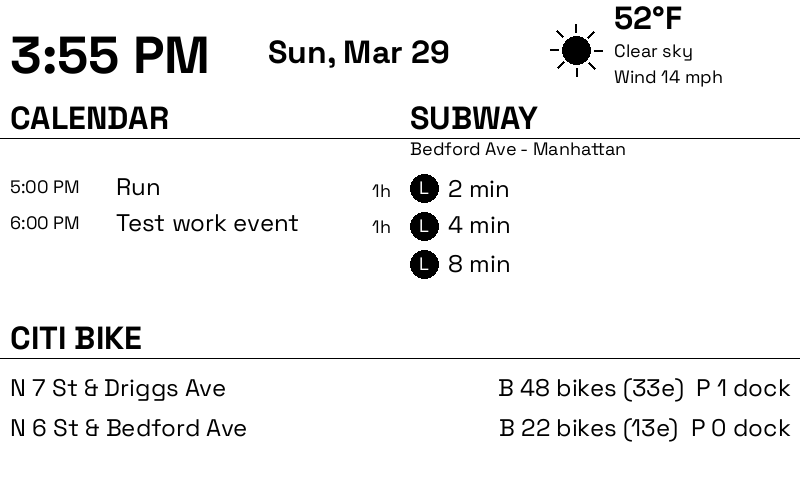
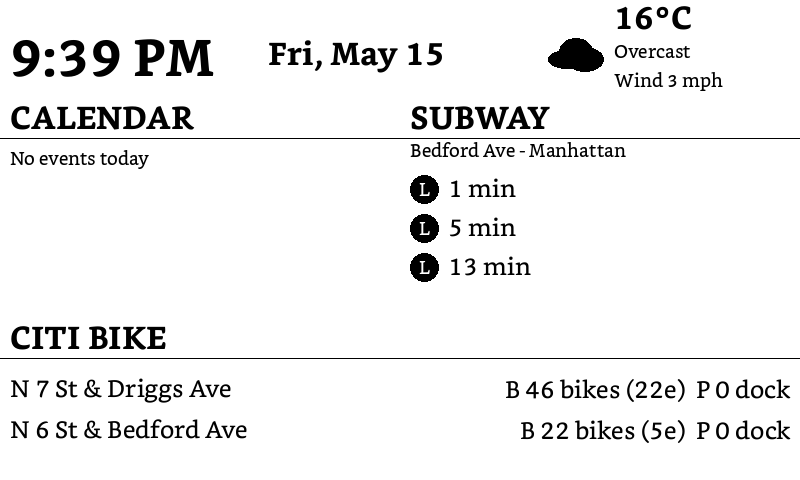
bookerly

diff --git a/fetchers/weather.py b/fetchers/weather.py
@@ -18,6 +18,17 @@ import config
 
 logger = logging.getLogger(__name__)
 
+
+def _open_meteo_temperature_unit() -> str:
+    u = str(getattr(config, "WEATHER_TEMPERATURE_UNIT", "celsius")).lower()
+    return "celsius" if u == "celsius" else "fahrenheit"
+
+
+def temperature_unit_suffix() -> str:
+    """Return ``°C`` or ``°F`` for labels, matching :func:`_open_meteo_temperature_unit`."""
+    return "°C" if _open_meteo_temperature_unit() == "celsius" else "°F"
+
+
 # ---------------------------------------------------------------------------
 # WMO weather interpretation codes → (human label, icon key)
 # Full table: https://open-meteo.com/en/docs#weathervariables
@@ -64,7 +75,7 @@ _cache: Optional[WeatherData] = None  # type: ignore[name-defined]  # forward re
 class WeatherData:
     """Current weather conditions."""
 
-    temperature: float       # °F
+    temperature: float       # degrees; unit matches config.WEATHER_TEMPERATURE_UNIT
     condition: str           # human-readable string
     wind_speed: float        # mph
     icon_key: str            # one of: sunny | cloudy | rainy | snowy | stormy | foggy
@@ -85,7 +96,7 @@ def fetch_weather() -> Optional[WeatherData]:
                 "latitude": config.LATITUDE,
                 "longitude": config.LONGITUDE,
                 "current": "temperature_2m,weathercode,windspeed_10m,precipitation",
-                "temperature_unit": "fahrenheit",
+                "temperature_unit": _open_meteo_temperature_unit(),
                 "wind_speed_unit": "mph",
                 "timezone": config.TIMEZONE,
             },
@@ -107,7 +118,11 @@ def fetch_weather() -> Optional[WeatherData]:
         )
         _cache = result
         logger.debug(
-            "Weather fetched: %.1f°F, %s (code %d)", result.temperature, condition, code
+            "Weather fetched: %.1f%s, %s (code %d)",
+            result.temperature,
+            temperature_unit_suffix(),
+            condition,
+            code,
         )
         return result
 

diff --git a/config.py b/config.py
@@ -14,6 +14,9 @@ LATITUDE: float = 40.71771557633474
 LONGITUDE: float = -73.95739191241212
 TIMEZONE: str = "America/New_York"
 
+# Open-Meteo: "celsius" or "fahrenheit" (see fetchers.weather).
+WEATHER_TEMPERATURE_UNIT: str = "celsius"
+
 # ---------------------------------------------------------------------------
 # MTA Subway
 # ---------------------------------------------------------------------------
@@ -78,8 +81,11 @@ FULL_REFRESH_INTERVAL: int = 900          # weather + calendar + full redraw (15
 # ---------------------------------------------------------------------------
 # Fonts  (paths relative to the project root)
 # ---------------------------------------------------------------------------
-FONT_REGULAR: str = "assets/fonts/SpaceGrotesk-Regular.ttf"
-FONT_BOLD: str = "assets/fonts/SpaceGrotesk-Bold.ttf"
+# Bookerly is not bundled (Amazon license). Place Bookerly-Regular.ttf and
+# Bookerly-Bold.ttf under assets/fonts/ (e.g. copy from your Kindle device).
+# OpenType (.otf) works too — set FONT_* to the correct filenames.
+FONT_REGULAR: str = "assets/fonts/Bookerly-Regular.ttf"
+FONT_BOLD: str = "assets/fonts/Bookerly-Bold.ttf"
 
 # Font sizes (pixels)
 FONT_SIZE_XL: int = 52   # clock

diff --git a/display/layout.py b/display/layout.py
@@ -117,9 +117,9 @@ class FontSet:
 
 
 def load_fonts() -> FontSet:
-    """Load Space Grotesk from the paths declared in *config*.
+    """Load fonts from the paths declared in *config* (see FONT_*).
 
-    Falls back to PIL's built-in bitmap font if the TTF files are missing
+    Falls back to PIL's built-in bitmap font if those files are missing
     (useful for CI environments without the font assets).
     """
     from PIL import ImageFont
@@ -132,7 +132,7 @@ def load_fonts() -> FontSet:
 
             logging.getLogger(__name__).warning(
                 "Font not found: %s — falling back to default bitmap font. "
-                "Add the bundled TTFs under assets/fonts/ or run scripts/setup.sh on the Pi.",
+                "Add font files under assets/fonts/ (see config.FONT_*) or run scripts/setup.sh on the Pi.",
                 path,
             )
             # FreeType fallback: PIL default is not a FreeTypeFont but the

diff --git a/renderers/weather.py b/renderers/weather.py
@@ -3,7 +3,7 @@ renderers/weather.py — Draws weather conditions in the HEADER_WEATHER region.
 
 Layout within the region (260 × 80 px):
   ┌─────────────────────────────┐
-  │  [ICON]   72°F              │
+  │  [ICON]   22°C              │
   │           Partly cloudy     │
   │           Wind 8 mph        │
   └─────────────────────────────┘
@@ -19,7 +19,7 @@ from typing import Optional
 from PIL import ImageDraw
 
 from display.layout import FontSet, Region
-from fetchers.weather import WeatherData
+from fetchers.weather import WeatherData, temperature_unit_suffix
 from renderers.base import BaseRenderer
 
 logger = logging.getLogger(__name__)
@@ -64,7 +64,7 @@ class WeatherRenderer(BaseRenderer):
         text_y = r.y + 6
 
         # Temperature (large)
-        temp_str = f"{data.temperature:.0f}°F"
+        temp_str = f"{data.temperature:.0f}{temperature_unit_suffix()}"
         self.draw_text(text_x, text_y, temp_str, self.fonts.lg)
 
         # Condition

diff --git a/tests/mock_display.py b/tests/mock_display.py
@@ -48,7 +48,8 @@ from PIL import Image, ImageDraw
 from display import load_fonts, HEADER_WEATHER, CALENDAR, SUBWAY, CITIBIKE
 from display.layout import HEADER_TIME, HEADER_DATE
 from display.epd_driver import EPDDriver
-from fetchers import fetch_weather, fetch_calendar, fetch_subway, fetch_citibike
+from fetchers import fetch_calendar, fetch_citibike, fetch_subway, fetch_weather
+from fetchers.weather import temperature_unit_suffix
 from renderers import WeatherRenderer, CalendarRenderer, SubwayRenderer, CitiBikeRenderer
 
 
@@ -77,7 +78,7 @@ def main() -> None:
     weather = fetch_weather()
     if weather:
         print(
-            f"      {weather.temperature:.1f}°F  {weather.condition}"
+            f"      {weather.temperature:.1f}{temperature_unit_suffix()}  {weather.condition}"
             f"  (icon: {weather.icon_key})  wind {weather.wind_speed:.0f} mph"
         )
     else: